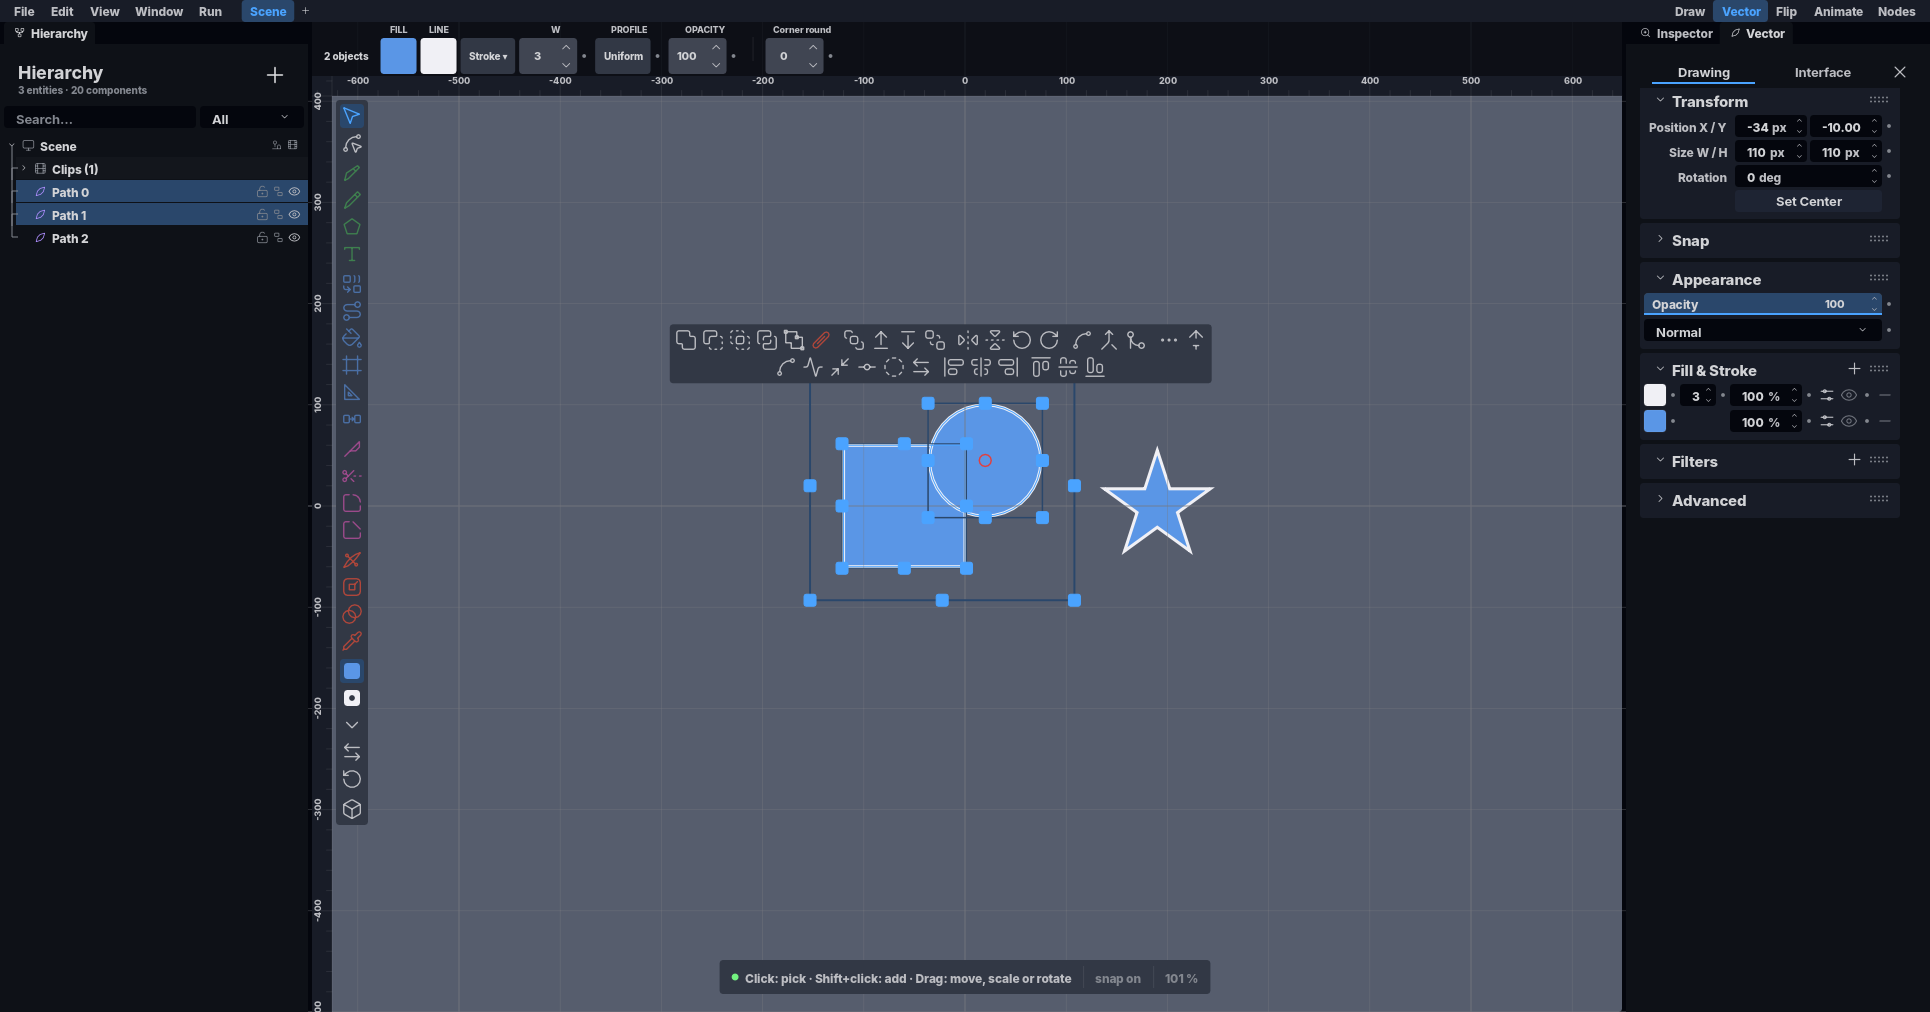
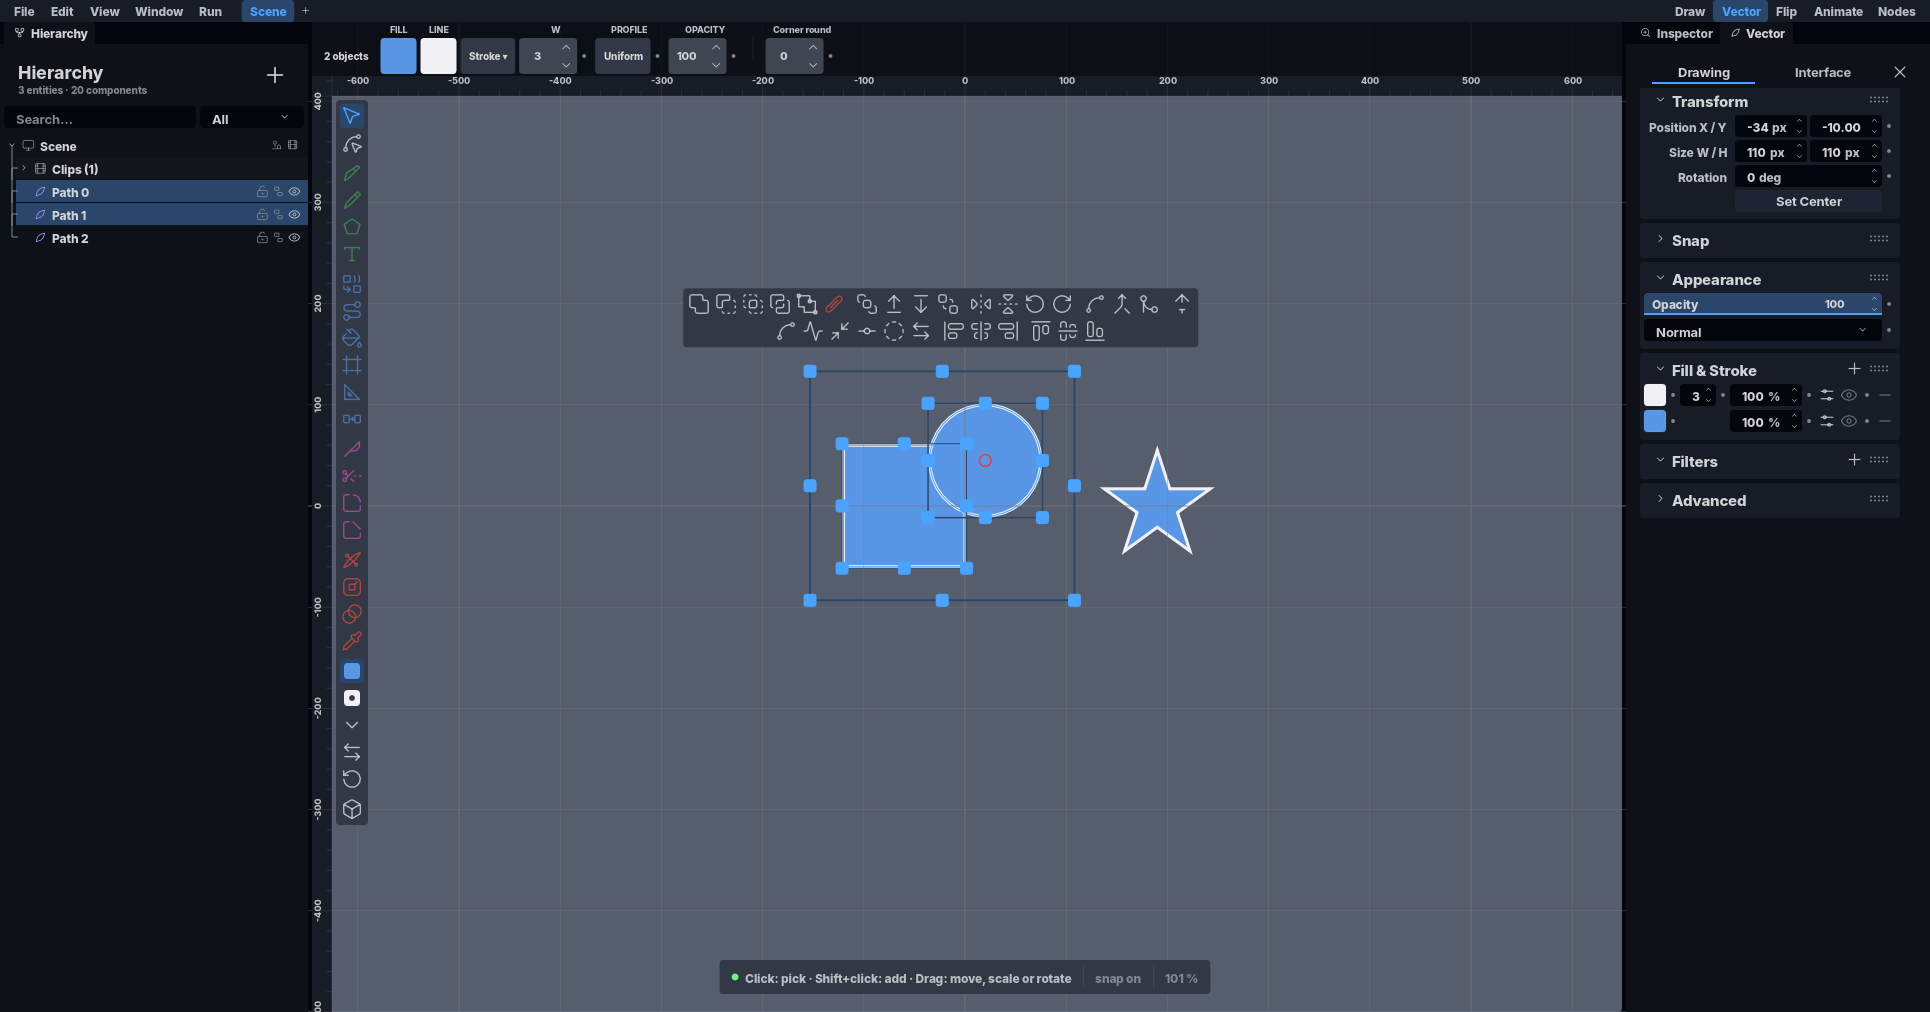
fix(UIUX F50, smoke do dono 02/11): a ④ não tapa o gizmo — âncora = seleção ∪ caixas do gizmo, folga Lg→Xl
- Dono: «afaste mais a barra de operações dos objetos selecionados. Sempre que possível devem ficar
  sem sobrepor o gizmo». A caixa GLOBAL da seleção múltipla afasta-se 32 px das formas
  (`snapshots_gizmo::global_view`) e a ④ ancorava-se só no bbox visual das formas.
- `ph2d_editor_core::gizmo::screen_aabb` (pública) + `bars_publish::anchor_clear_of_gizmo` (gate
  `the_anchor_clears_the_gizmo_box`); `selection_gap` = alça + `Spacing::Xl`.
- seam.rs: a contagem de secções 32→30 e o gate do Outline Stroke no painel saíram com a F50
  (estavam vermelhos desde 6382bcd1e6).
- Foto da cena 53 refeita.

Changed region(s): [[0.342, 0.2757, 0.6528, 0.3982]]

diff --git a/crates/ph2d-panel-vector/tests/it/seam.rs b/crates/ph2d-panel-vector/tests/it/seam.rs
@@ -710,7 +710,9 @@ fn every_section_header_is_registered_as_collapsible() {
         // ⚠ O `33` foi CONTADO (o gate imprimiu `left: 33`).
         // ⛔ −1 (F48d, 02/11): EXPAND saiu — o Offset Path é uma ferramenta (coluna ①, opções na
         // fila ②). ⚠ O `32` foi CONTADO (o gate imprimiu `left: 32`).
-        32,
+        // ⛔ −2 (F50, 02/11): BOOLEAN e CONVERT saíram — as comuns na barra de ações ④ (dono:
+        // «faça como o Figma»), as raras saíram do app. ⚠ O `30` foi CONTADO.
+        30,
         "a lista de secoes mudou — confira que o paint pinta um header para cada uma"
     );
     for &id in ids::VECTOR_SECTIONS {
@@ -1678,80 +1680,8 @@ fn the_effect_chip_carries_the_documents_range_not_the_normalised_track() {
     ph2d_panel_vector::set_current_effects(false, false, &[], Vec::new());
 }
 
-/// **Os controles da seção Expand chegam ao seu destino quando o artista CLICA neles** —
-/// pelo caminho inteiro (`paint` → hit-rect → ponteiro real → dispatcher → `event.rs`).
-///
-/// ⚠ **Os dois COMANDOS e os três chips de JUNÇÃO têm destinos diferentes, e é isso que o
-/// gate afirma:** Offset Path / Outline Stroke viram `ToolPanelEvent` (a shell os aplica ao
-/// documento); a junção é **panel-local** e para no painel. Um chip que vazasse para o bus
-/// seria um segundo lugar guardando "que quina o offset faz"; um comando que NÃO vazasse
-/// seria um botão pintado e morto.
-///
-/// ⚠ O clique é um ponteiro de verdade, nunca um `WidgetEvent` sintético: o evento
-/// fabricado pula a checagem de FOCABILIDADE no store, e um widget fora do `populate`
-/// passaria — pintado, com hit-rect, e morto sob o mouse.
-#[test]
-fn every_expand_control_reaches_its_destination_when_clicked() {
-    // ⚠ **A SELEÇÃO faz parte da premissa desta fixture** (2026-08-31): as seções Boolean /
-    // Expand / Envelope / Arrange / Path são COMANDOS sobre a seleção, e todo controle delas morre
-    // numa guarda de seleção — então elas somem inteiras com a seleção vazia
-    // (`section_scope::WHEN_SELECTED`, report do Enio: *"deixar no painel apenas o que é útil"*).
-    // Sem esta linha o gate mede uma seção que o produto, com razão, não desenha.
-    ph2d_panel_vector::state::set_current_selection_count(1);
-    // `Apply`/`Remove` só existem com um offset VIVO na seleção (dono 02/11).
-    ph2d_panel_vector::set_offset_live_on(true);
-    const VIEWPORT: Rect = Rect {
-        x: 0.0,
-        y: 0.0,
-        w: 1600.0,
-        h: 4000.0,
-    };
-    const SEC: u128 = 1_000_000_000;
-    // ⛔ F48d (02/11): os controlos do Offset Path saíram do Inspector para a ferramenta (fila ② e
-    // ④) — os gates deles moram em `f48_offset_path_tool.rs`. Fica o da secção Convert.
-    for (id, name, forwards) in [(
-        ph2d_tool_vector::ids::VECTOR_EXPAND_OUTLINE_STROKE,
-        "Outline Stroke",
-        true,
-    )] {
-        let mut host = crate::host_aberto();
-        let mut panel_state = VectorPanelState;
-        let r = host
-            .painted_rect::<VectorPanel>(&mut panel_state, VIEWPORT, id)
-            .unwrap_or_else(|| {
-                panic!("o controle {name} nao foi PINTADO com area clicavel na secao Expand")
-            });
-        let (cx, cy) = (r.x + r.w * 0.5, r.y + r.h * 0.5);
-        host.dispatch_pointer_event(pointer(PointerKind::Down, cx, cy, SEC));
-        let evs = host.dispatch_pointer_event(pointer(PointerKind::Up, cx, cy, SEC + SEC / 100));
-        assert!(
-            evs.iter()
-                .any(|e| matches!(e, WidgetEvent::Click(c) if *c == id)),
-            "o ponteiro sobre {name} nao virou Click — falta `button()` no `populate` \
-             (o controle esta desenhado, mas nao existe para o dispatcher)"
-        );
-        for ev in evs {
-            let outcome = host.apply_panel_event::<VectorPanel>(&mut panel_state, ev);
-            if matches!(ev, WidgetEvent::Click(c) if c == id) {
-                assert_eq!(
-                    outcome,
-                    EventOutcome::Consumed,
-                    "o Click em {name} nao foi consumido pelo `event.rs`"
-                );
-            }
-        }
-        let reached = host
-            .drained_actions()
-            .into_iter()
-            .any(|a| matches!(a, EditorAction::ToolPanelEvent(PanelEvent::Click(c)) if c == id));
-        assert_eq!(
-            reached, forwards,
-            "{name}: chegou ao bus = {reached}, esperado {forwards} — um COMANDO tem de \
-             chegar (senao e' botao morto) e a JUNCAO nao pode (senao seriam dois lugares \
-             guardando a mesma escolha)"
-        );
-    }
-}
+// ⛔ F50 (02/11): o gate do Outline Stroke clicado no painel saiu com a secção Convert — o botão
+// mora na ④ (`f50_boolean_e_convert_na_barra.rs` e `the_vector_bars_answer_a_real_pointer`).
 
 /// **O chip de junção clicado é o que fica selecionado.** Sem isto os três seriam
 /// consumidos, o gate acima passaria, e a escolha do artista cairia no chão — o Offset Path

diff --git a/crates/ph2d-app-vec/src/bars_publish.rs b/crates/ph2d-app-vec/src/bars_publish.rs
@@ -46,6 +46,22 @@ pub fn selection_on_screen(
     ))
 }
 
+/// ⭐ (dono 02/11, F50) **A âncora da ④ não pode ficar por cima do GIZMO**: a união da seleção com as
+/// caixas que o gizmo desenha (a da forma, as extra e a GLOBAL da seleção múltipla, que se afasta
+/// 32 px das formas) — sem isto a ④ tapava-lhe a borda e as alças.
+#[must_use]
+pub fn anchor_clear_of_gizmo(sel: Rect, gizmo: Option<Rect>) -> Rect {
+    let Some(g) = gizmo else {
+        return sel;
+    };
+    let (x0, y0) = (sel.x.min(g.x), sel.y.min(g.y));
+    let (x1, y1) = (
+        (sel.x + sel.w).max(g.x + g.w),
+        (sel.y + sel.h).max(g.y + g.h),
+    );
+    Rect::new(x0, y0, x1 - x0, y1 - y0)
+}
+
 /// ⑤ as leituras: onde o ponteiro está (na unidade do projeto), o encaixe e o zoom.
 fn readout(hero: &HeroScreen, snap_on: bool, px_to_world: f64) -> Vec<String> {
     let mut out = Vec::new();
@@ -105,7 +121,16 @@ pub fn publish(
     let selection = hero
         .grid
         .view
-        .and_then(|v| selection_on_screen(scene, pen, xforms, &v));
+        .and_then(|v| selection_on_screen(scene, pen, xforms, &v))
+        .map(|sel| {
+            let g = &hero.gizmo;
+            g.view
+                .iter()
+                .chain(g.global_view.iter())
+                .chain(g.extra_views.iter().map(|(_, v)| v))
+                .map(ph2d_editor_core::gizmo::screen_aabb)
+                .fold(sel, |a, r| anchor_clear_of_gizmo(a, Some(r)))
+        });
     let readout = readout(hero, snap_on, px_to_world);
     let bars = ph2d_panel_vector::bars::tool_bars(&hero.store, selection, readout);
     hero.store.set_tool_bars(Some(bars));
@@ -119,6 +144,22 @@ mod tests {
     use ph2d_editor_core::interaction::ToolBars;
     use ph2d_editor_core::screens::hero::HeroScreen;
     use ph2d_vec_scene::{VecScene, VecXforms};
+
+    /// A ④ ancora-se na UNIÃO da seleção com a caixa do gizmo; sem gizmo, na seleção.
+    #[test]
+    fn the_anchor_clears_the_gizmo_box() {
+        use ph2d_editor_core::zones::Rect;
+        let sel = Rect::new(391.0, 183.0, 203.0, 170.0);
+        let gizmo = Rect::new(359.0, 163.0, 266.0, 218.0);
+        let a = super::anchor_clear_of_gizmo(sel, Some(gizmo));
+        assert_eq!((a.x, a.y, a.w, a.h), (359.0, 163.0, 266.0, 218.0));
+        let a = super::anchor_clear_of_gizmo(sel, None);
+        assert_eq!((a.x, a.y, a.w, a.h), (sel.x, sel.y, sel.w, sel.h));
+        // Uma caixa MENOR que a seleção não encolhe a âncora.
+        let dentro = Rect::new(400.0, 200.0, 10.0, 10.0);
+        let a = super::anchor_clear_of_gizmo(sel, Some(dentro));
+        assert_eq!((a.x, a.y, a.w, a.h), (sel.x, sel.y, sel.w, sel.h));
+    }
 
     /// O vetor inactivo limpa as SUAS barras e deixa a coluna do pintor (que o chrome publica) em paz.
     #[test]

diff --git a/crates/ph2d-editor-core/src/screens/hero/float_bar_tests.rs b/crates/ph2d-editor-core/src/screens/hero/float_bar_tests.rs
@@ -138,12 +138,12 @@ fn the_frame_margin_clears_both_floating_bars() {
     assert!((24.0..=64.0).contains(&m), "{m} fora da faixa dos oráculos");
 }
 
-/// ⭐ (F11) **A ④ flutua a uma alça inteira mais `Lg` da seleção** (o dono: *«abrem muito próximos
-/// das formas»*; eram 12 px) — pela MESMA conta que o pintor ([`tool_bars::placed`]).
+/// ⭐ (F11 + F50) **A ④ flutua a uma alça inteira mais `Xl` da seleção** (o dono: *«abrem muito
+/// próximos das formas»*; eram 12 px; 02/11: *«afaste mais»*) — pela MESMA conta que o pintor ([`tool_bars::placed`]).
 #[test]
-fn the_action_bar_floats_one_handle_plus_lg_off_the_selection() {
+fn the_action_bar_floats_one_handle_plus_xl_off_the_selection() {
     use crate::interaction::{BarButton, BarFace, BarFamily, ToolBars};
-    let gap = crate::HANDLE_SIZE_PX + Spacing::Lg.px();
+    let gap = crate::HANDLE_SIZE_PX + Spacing::Xl.px();
     assert!((selection_gap() - gap).abs() < 1e-3);
     let b = |id| BarButton {
         id: NodeId(id),

diff --git a/crates/ph2d-editor-core/src/screens/hero/float_bar.rs b/crates/ph2d-editor-core/src/screens/hero/float_bar.rs
@@ -206,11 +206,12 @@ pub fn strip_rects(area: Rect, sel: Rect, groups: &[usize], s: f32) -> Vec<Rect>
 }
 
 /// ⭐ **A folga entre a seleção e a ④ do vetor**: uma ALÇA inteira (os widgets da borda da caixa
-/// ficam à vista) mais `Spacing::Lg`. O dono (11/10): *«abrem muito próximos das formas»* — eram
-/// `Lg` (12 px); doc 17 §3.
+/// ficam à vista) mais `Spacing::Xl`. O dono (11/10): *«abrem muito próximos das formas»* — eram
+/// `Lg` (12 px); doc 17 §3. E outra vez (02/11, F50): *«afaste mais … sem sobrepor o gizmo»* —
+/// `Lg` → `Xl`, e a âncora passou a incluir a caixa do gizmo (`bars_publish::anchor_clear_of_gizmo`).
 #[must_use]
 pub fn selection_gap() -> f32 {
-    crate::HANDLE_SIZE_PX + Spacing::Lg.px()
+    crate::HANDLE_SIZE_PX + Spacing::Xl.px()
 }
 
 /// A [`strip_rects`] a `gap` px da seleção — a ④ do vetor afasta-se a [`selection_gap`] (F11); o

diff --git a/crates/ph2d-editor-core/src/gizmo/paint_geom.rs b/crates/ph2d-editor-core/src/gizmo/paint_geom.rs
@@ -34,6 +34,20 @@ pub(super) fn corners_screen(view: &GizmoView) -> [[f32; 2]; 4] {
     ]
 }
 
+/// ⭐ (F50) **A caixa da `view` em ECRÃ**, alinhada aos eixos (os quatro cantos projectados) — o que
+/// a ④ do vetor não pode tapar.
+#[must_use]
+pub fn screen_aabb(view: &GizmoView) -> Rect {
+    let c = corners_screen(view);
+    let (x0, x1) = c
+        .iter()
+        .fold((f32::MAX, f32::MIN), |(a, b), p| (a.min(p[0]), b.max(p[0])));
+    let (y0, y1) = c
+        .iter()
+        .fold((f32::MAX, f32::MIN), |(a, b), p| (a.min(p[1]), b.max(p[1])));
+    Rect::new(x0, y0, x1 - x0, y1 - y0)
+}
+
 /// As quatro zonas de rodar `(id, rect)`, "para lá" de cada canto ao longo dos eixos LOCAIS da
 /// caixa no ecrã. Sem pai, os eixos saem da rotação (o caminho de sempre); com pai, das ARESTAS
 /// projectadas — sob cisalhamento os dois eixos deixam de ser perpendiculares.

diff --git a/crates/ph2d-editor-core/src/gizmo/mod.rs b/crates/ph2d-editor-core/src/gizmo/mod.rs
@@ -58,6 +58,7 @@ pub use paint::{
     GizmoView, HANDLE_SIZE_PX, paint_gizmo_outline, paint_sprite_gizmo, paint_sprite_gizmo_keyed,
     paint_sprite_gizmo_skewing, paint_sprite_gizmo_with, sprite_gizmo_hit_at,
 };
+pub use paint_geom::screen_aabb;
 pub use point::{PointGizmoView, PointHandle, PointHandleKind, paint_point_gizmo, point_handle_id};
 pub use readout::{GizmoReadout, gizmo_readout};
 pub use sprite_box::{SpriteBox, drag_in_skew_frame, drag_skew_model, sprite_box};
